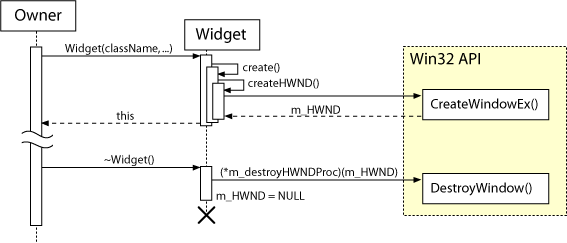
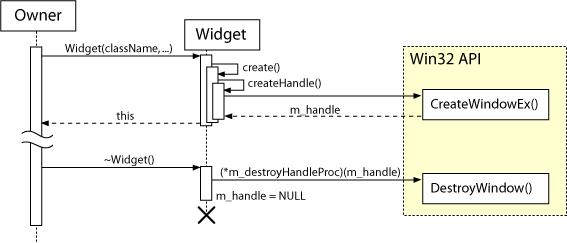
Renamed setDestroyHWNDProc to setDestroyHandleProc. Updated images in help.

diff --git a/src/Widget.cpp b/src/Widget.cpp
@@ -63,7 +63,7 @@ static Mutex atomMutex; // used to access atom
 static volatile ATOM atom = 0;
 
 // default callback to destroy a HWND
-static void Widget_DestroyHWNDProc(HWND hwnd)
+static void Widget_DestroyHandleProc(HWND hwnd)
 {
   ::DestroyWindow(hwnd);
 }
@@ -114,20 +114,20 @@ Widget::Widget(const WidgetClassName& className, Widget* parent, Style style)
   create_atom();
 
   // initialize members
-  m_handle           = NULL;
-  m_parent           = NULL;
-  m_fgColor          = System::getColor(COLOR_WINDOWTEXT);
-  m_bgColor          = System::getColor(COLOR_3DFACE);
-  m_constraint       = NULL;
-  m_layout           = NULL;
-  m_baseWndProc      = NULL;
-  m_hasMouse         = false;
-  m_deleteAfterEvent = false;
-  m_doubleBuffered   = false;
-  m_preferredSize    = NULL;
-  m_defWndProc       = ::DefWindowProc;
-  m_destroyHWNDProc  = Widget_DestroyHWNDProc;
-  m_hbrush           = NULL;
+  m_handle            = NULL;
+  m_parent            = NULL;
+  m_fgColor           = System::getColor(COLOR_WINDOWTEXT);
+  m_bgColor           = System::getColor(COLOR_3DFACE);
+  m_constraint        = NULL;
+  m_layout            = NULL;
+  m_baseWndProc       = NULL;
+  m_hasMouse          = false;
+  m_deleteAfterEvent  = false;
+  m_doubleBuffered    = false;
+  m_preferredSize     = NULL;
+  m_defWndProc        = ::DefWindowProc;
+  m_destroyHandleProc = Widget_DestroyHandleProc;
+  m_hbrush            = NULL;
 
   // create with the specified "className"?
   if (className != WidgetClassName::None)
@@ -169,20 +169,20 @@ Widget::Widget(HWND handle)
     throw CreateWidgetException(format_string(L"Cannot subclass two times the same widget."));
 
   // initialize members
-  m_handle           = handle;
-  m_parent           = NULL;
-  m_fgColor          = System::getColor(COLOR_WINDOWTEXT);
-  m_bgColor          = System::getColor(COLOR_3DFACE);
-  m_constraint       = NULL;
-  m_layout           = NULL;
-  m_baseWndProc      = NULL;
-  m_hasMouse         = false;
-  m_deleteAfterEvent = false;
-  m_doubleBuffered   = false;
-  m_preferredSize    = NULL;
-  m_defWndProc       = NULL; // m_baseWndProc will be used
-  m_destroyHWNDProc  = NULL; // to avoid destroying this widget in dtor
-  m_hbrush           = NULL;
+  m_handle            = handle;
+  m_parent            = NULL;
+  m_fgColor           = System::getColor(COLOR_WINDOWTEXT);
+  m_bgColor           = System::getColor(COLOR_3DFACE);
+  m_constraint        = NULL;
+  m_layout            = NULL;
+  m_baseWndProc       = NULL;
+  m_hasMouse          = false;
+  m_deleteAfterEvent  = false;
+  m_doubleBuffered    = false;
+  m_preferredSize     = NULL;
+  m_defWndProc        = NULL; // m_baseWndProc will be used
+  m_destroyHandleProc = NULL; // to avoid destroying this widget in dtor
+  m_hbrush            = NULL;
 
   subClass();
 
@@ -206,7 +206,7 @@ Widget::Widget(HWND handle)
  *   It calls @msdn{DestroyWindow} function.
  * @endwin32
  *
- * @see @ref page_tn_002, setDestroyHWNDProc
+ * @see @ref page_tn_002, setDestroyHandleProc
  */
 Widget::~Widget()
 {
@@ -220,7 +220,7 @@ Widget::~Widget()
     releaseFocus();
 
   // hide the window (only if we will call DestroyWindow)
-  if (m_destroyHWNDProc)
+  if (m_destroyHandleProc)
     ::ShowWindow(m_handle, SW_HIDE);
 
   if (getParent() != NULL) {
@@ -251,8 +251,8 @@ Widget::~Widget()
     DeleteObject(m_hbrush);
   
   // call the procedure to destroy the HWND handler
-  if (m_destroyHWNDProc)
-    m_destroyHWNDProc(m_handle);
+  if (m_destroyHandleProc)
+    (*m_destroyHandleProc)(m_handle);
   else
     RemoveProp(m_handle, VACA_ATOM);
 
@@ -2989,9 +2989,9 @@ void Widget::setDefWndProc(WNDPROC proc)
  *
  * @see ~Widget
  */
-void Widget::setDestroyHWNDProc(void (*proc)(HWND))
+void Widget::setDestroyHandleProc(void (*proc)(HWND))
 {
-  m_destroyHWNDProc = proc;
+  m_destroyHandleProc = proc;
 }
 
 /**

diff --git a/src/Mdi.cpp b/src/Mdi.cpp
@@ -42,7 +42,7 @@ using namespace Vaca;
 // MdiChild
 
 
-static void MdiChild_DestroyHWNDProc(HWND hwnd)
+static void MdiChild_DestroyHandleProc(HWND hwnd)
 {
   // we must be limited to use only the HWND...
   HWND hClient = ::GetParent(hwnd);
@@ -60,7 +60,7 @@ MdiChild::MdiChild(const String& title, MdiClient* parent, Style style)
   : Frame(WidgetClassName::None, L"", NULL, Widget::Styles::None)
 {
   setDefWndProc(DefMDIChildProc);
-  setDestroyHWNDProc(MdiChild_DestroyHWNDProc);
+  setDestroyHandleProc(MdiChild_DestroyHandleProc);
 
   create(MdiChildClass::getClassName(), parent, style);
   setText(title);
@@ -77,7 +77,7 @@ MdiChild::MdiChild(const String& title, MdiFrame* parent, Style style)
   : Frame(WidgetClassName::None, L"", NULL, Widget::Styles::None)
 {
   setDefWndProc(DefMDIChildProc);
-  setDestroyHWNDProc(MdiChild_DestroyHWNDProc);
+  setDestroyHandleProc(MdiChild_DestroyHandleProc);
 
   create(MdiChildClass::getClassName(), parent->getMdiClient(), style);
   setText(title);

diff --git a/include/Vaca/Widget.h b/include/Vaca/Widget.h
@@ -232,7 +232,7 @@ private:
    * Used by MdiChild to send a WM_MDIDESTROY instead of calling
    * Win32's DestroyWindow function.
    */
-  void (*m_destroyHWNDProc)(HWND hwnd);
+  void (*m_destroyHandleProc)(HWND hwnd);
   
 public:
 
@@ -487,7 +487,7 @@ protected:
   bool doPaint(Graphics& g);
 
   void setDefWndProc(WNDPROC proc);
-  void setDestroyHWNDProc(void (*proc)(HWND));
+  void setDestroyHandleProc(void (*proc)(HWND));
 
 private:
 
